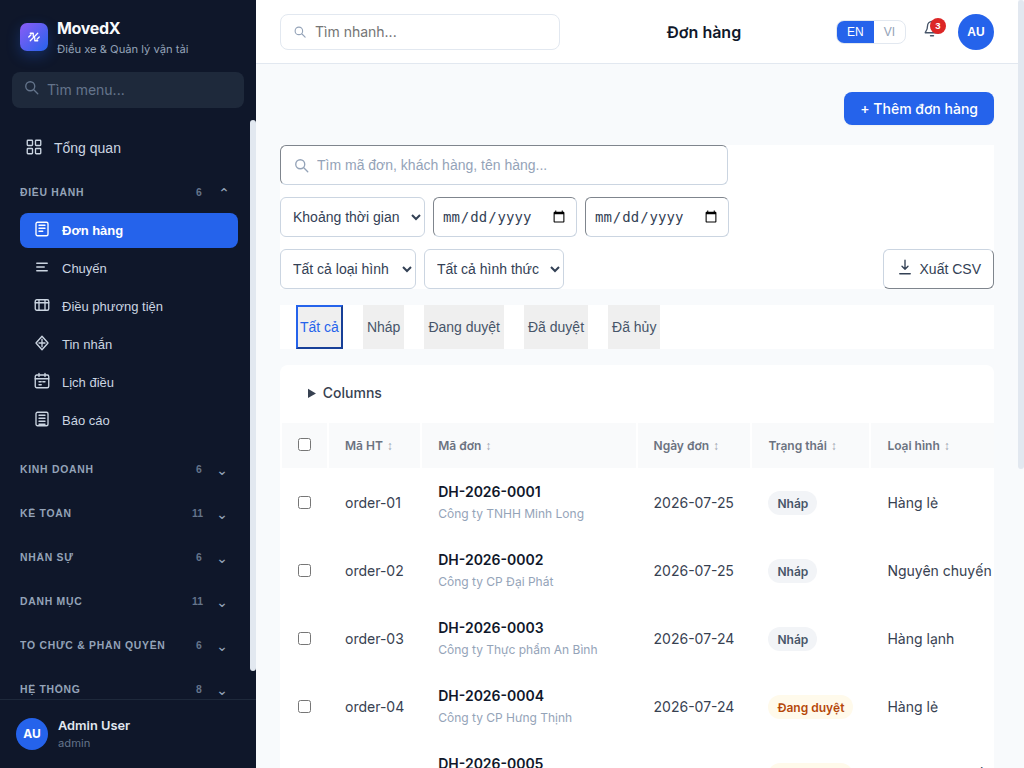
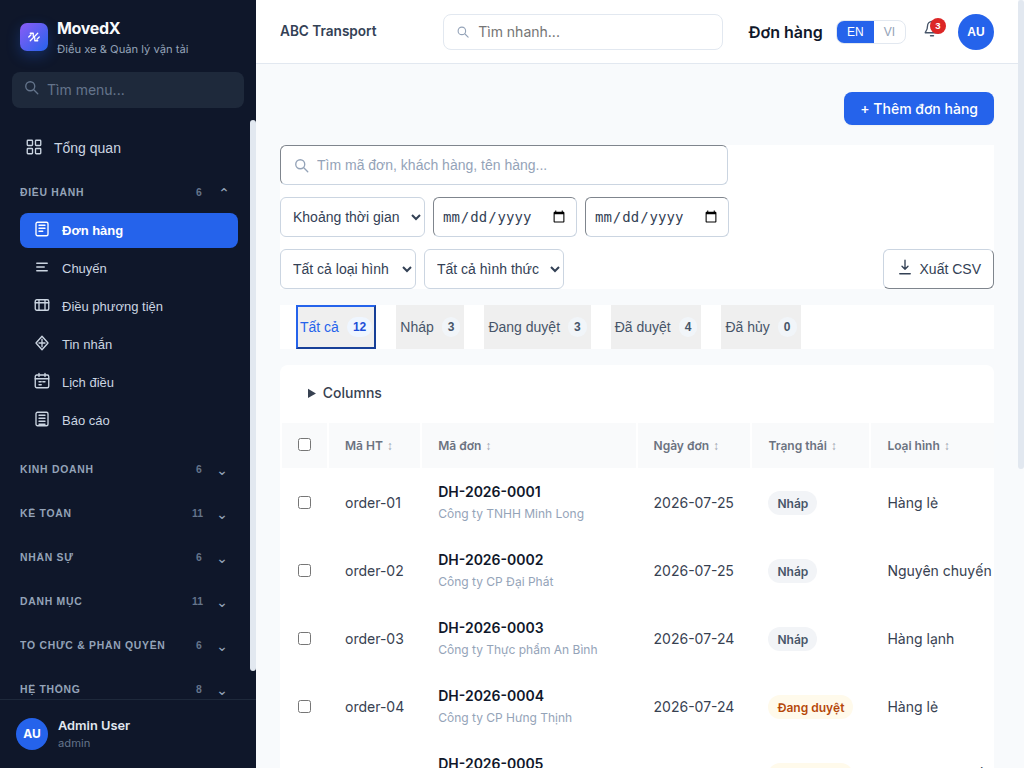
Add datasource-backed status tab counts

diff --git a/lib/page-renderer.ts b/lib/page-renderer.ts
@@ -859,10 +859,20 @@ export async function renderPage(config: any, { container = document.body }: { c
 
   async function renderStatusTabs(def: any, targetContainer: HTMLElement) {
     const { StatusTabs } = await import('./components/StatusTabs.ts');
+    const sourceResult = def.source ? dataMap[def.source] || {} : {};
+    const rows = Array.isArray(sourceResult.data) ? sourceResult.data : [];
+    const field = def.filter_field || 'status';
+    const tabs = (def.tabs || []).map((tab: any) => {
+      if (tab.count !== undefined) return tab;
+      const count = tab.id === ''
+        ? Number(sourceResult.meta?.total ?? rows.length)
+        : rows.filter((row: any) => String(row[field] ?? '') === String(tab.id)).length;
+      return { ...tab, count };
+    });
     const comp = new StatusTabs(
       `status-tabs-${def.source || def.id || Date.now()}`,
-      { active: def.active || def.tabs?.[0]?.id },
-      def.tabs || []
+      { active: def.active || tabs[0]?.id },
+      tabs,
     );
     comp._onAction = async (_actionId: string, params: any) => {
       const sourceId = def.source;

diff --git a/.scratch/movedx-feature-parity/evidence/orders/controls.md b/.scratch/movedx-feature-parity/evidence/orders/controls.md
@@ -36,6 +36,8 @@ be recaptured from the read-only tenant before final visual-parity signoff.
 - [x] Browser console contains no errors after transition and refresh.
 - [x] Operations navigation exposes the six reference entries: orders, trips,
   vehicle dispatch, chat, schedule, and reports.
+- [x] Lifecycle tabs show datasource-backed counts for all, draft, approval,
+  approved, and cancelled orders.
 - [x] Shared DataGrid keeps list rows dense with single-line truncation for long
   customer, route, and metadata cells while retaining horizontal overflow.
 
